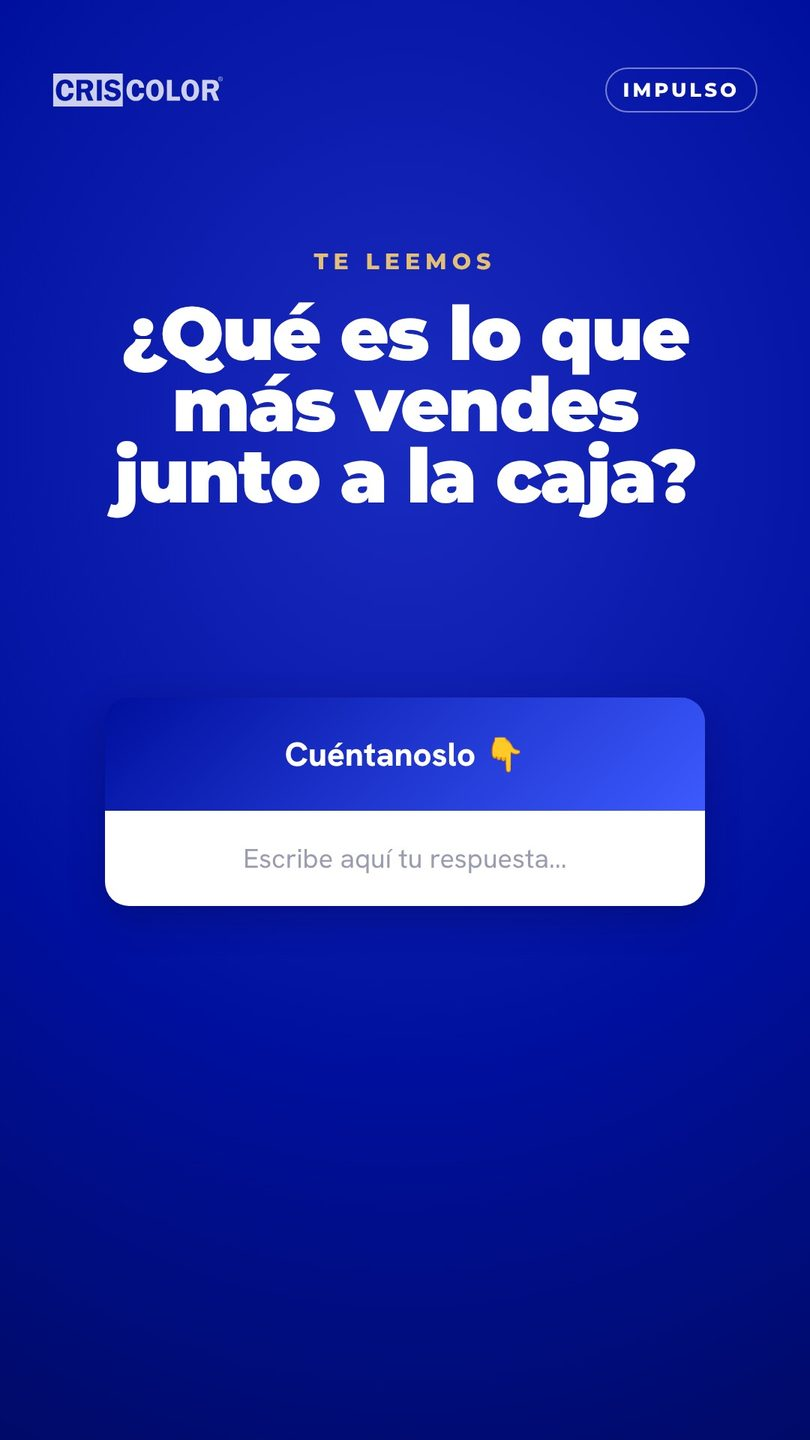
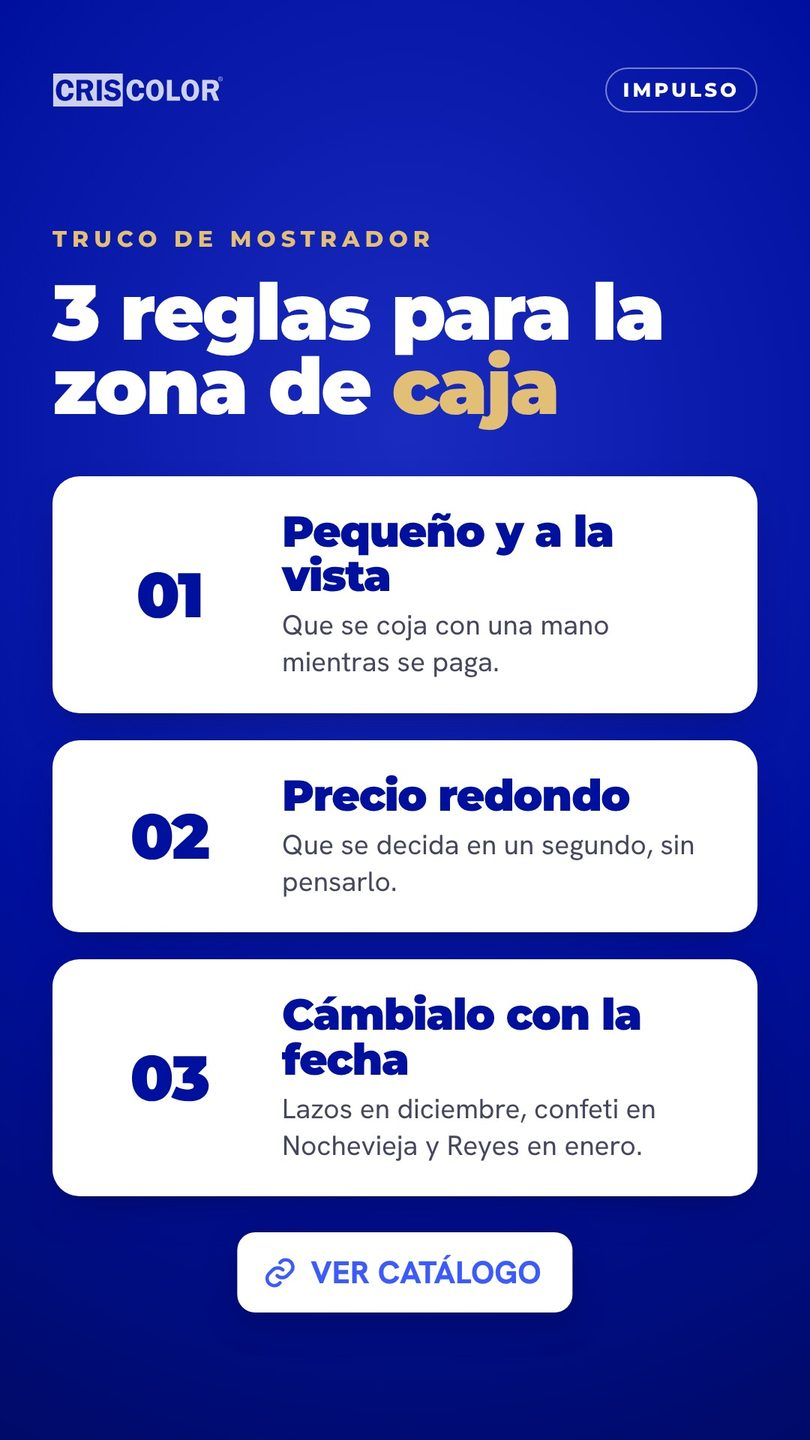
Historias solo informativas: lunes con 3 reglas para la zona de caja y viernes Criscolor en datos (sin encuestas ni cajas de preguntas)
Claude-Session: https://claude.ai/code/session_016vX2tAnYJNsb3voomsbycX

diff --git a/data/weeks.js b/data/weeks.js
@@ -1,9 +1,9 @@
 /* Contenido por semanas. Para añadir una semana: copia un bloque, cambia id/fechas y sube las imágenes a /img con el nombre <id>-<n>.jpg */
 window.WEEKS = [
  { id:'w45', label:'Semana 45 · 2–6 nov', title:'Semana del <em>2 al 6</em> de noviembre', items:[
-  { id:'s45-lun', v:2, type:'story', day:'Lunes', date:'2 nov', title:'Junto a la caja', n:3,
-    goal:'Arrancamos la semana con un dato que le interesa a cualquier tendero: el sitio de la tienda que más vende sin esfuerzo, y qué poner en él.',
-    notes:['3 historias: el dato (el metro cuadrado que más vende), 3 productos de impulso con referencia (lazos estrella 43030, gafas Árbol 45035 y cañón de confeti 44251) y caja de preguntas.','En la 2ª va el sticker de enlace «Ver catálogo».','En la 3ª va el sticker de caja de preguntas «Cuéntanoslo».','Hora recomendada: 9:30.'] },
+  { id:'s45-lun', v:3, type:'story', day:'Lunes', date:'2 nov', title:'Junto a la caja', n:3,
+    goal:'Arrancamos la semana con información útil para el tendero: el sitio de la tienda que más vende sin esfuerzo, qué poner en él y cómo organizarlo.',
+    notes:['3 historias: el dato (el metro cuadrado que más vende), 3 productos de impulso con referencia (lazos estrella 43030, gafas Árbol 45035 y cañón de confeti 44251) y 3 reglas para la zona de caja.','En la 3ª va el sticker de enlace «Ver catálogo».','Hora recomendada: 9:30.'] },
   { id:'p45-mar', v:2, type:'post', day:'Martes', date:'3 nov', title:'Qué calefactor vender a cada cliente', n:5,
     goal:'Carrusel de valor con la gama de calefacción, que es lo primero que se vende cuando llega el frío: tres perfiles de cliente y qué modelo recomendar a cada uno.',
     copy:`¿Qué calefactor le vendes a cada cliente? 🔥
@@ -43,8 +43,8 @@ Del primer frío a Reyes, esto es lo que conviene tener en tienda en cada moment
 
 #Criscolor #Navidad2026 #Nochevieja #ReyesMagos #IdeasParaTiendas #ComercioLocal #MayoristaNavidad`,
     notes:['Carrusel de 5 diapositivas 4:5.','Hora recomendada: 13:00.'] },
-  { id:'s45-vie', type:'story', day:'Viernes', date:'6 nov', title:'¿Cuánto sabes de Criscolor?', n:3,
-    goal:'Cerramos la semana con interacción: un quiz sobre el catálogo y una caja de preguntas para saber qué producto quieren ver.',
-    notes:['3 historias: pregunta con sticker de quiz (A/B/C), respuesta (4.250 referencias) y caja de preguntas.','En la 2ª va el sticker de enlace «Ver catálogo».','Hora recomendada: 12:00.'] }
+  { id:'s45-vie', v:2, type:'story', day:'Viernes', date:'6 nov', title:'Criscolor en datos', n:3,
+    goal:'Cerramos la semana presentando a Criscolor con datos: el tamaño del catálogo, las familias de la campaña de invierno y cómo se trabaja con nosotros.',
+    notes:['3 historias: 4.250 referencias en catálogo, las 12 familias de la campaña de invierno y cómo pedir (solo profesionales, pedido mínimo 500 €, 25+ comerciales).','En la 3ª va el sticker de enlace «Ver catálogo».','Hora recomendada: 12:00.'] }
  ]}
 ];

diff --git a/index.html b/index.html
@@ -35,7 +35,7 @@
   </form>
 </div>
 
-<script src="/data/weeks.js?v=2"></script>
+<script src="/data/weeks.js?v=3"></script>
 <script src="/assets/app.js?v=1"></script>
 </body>
 </html>
